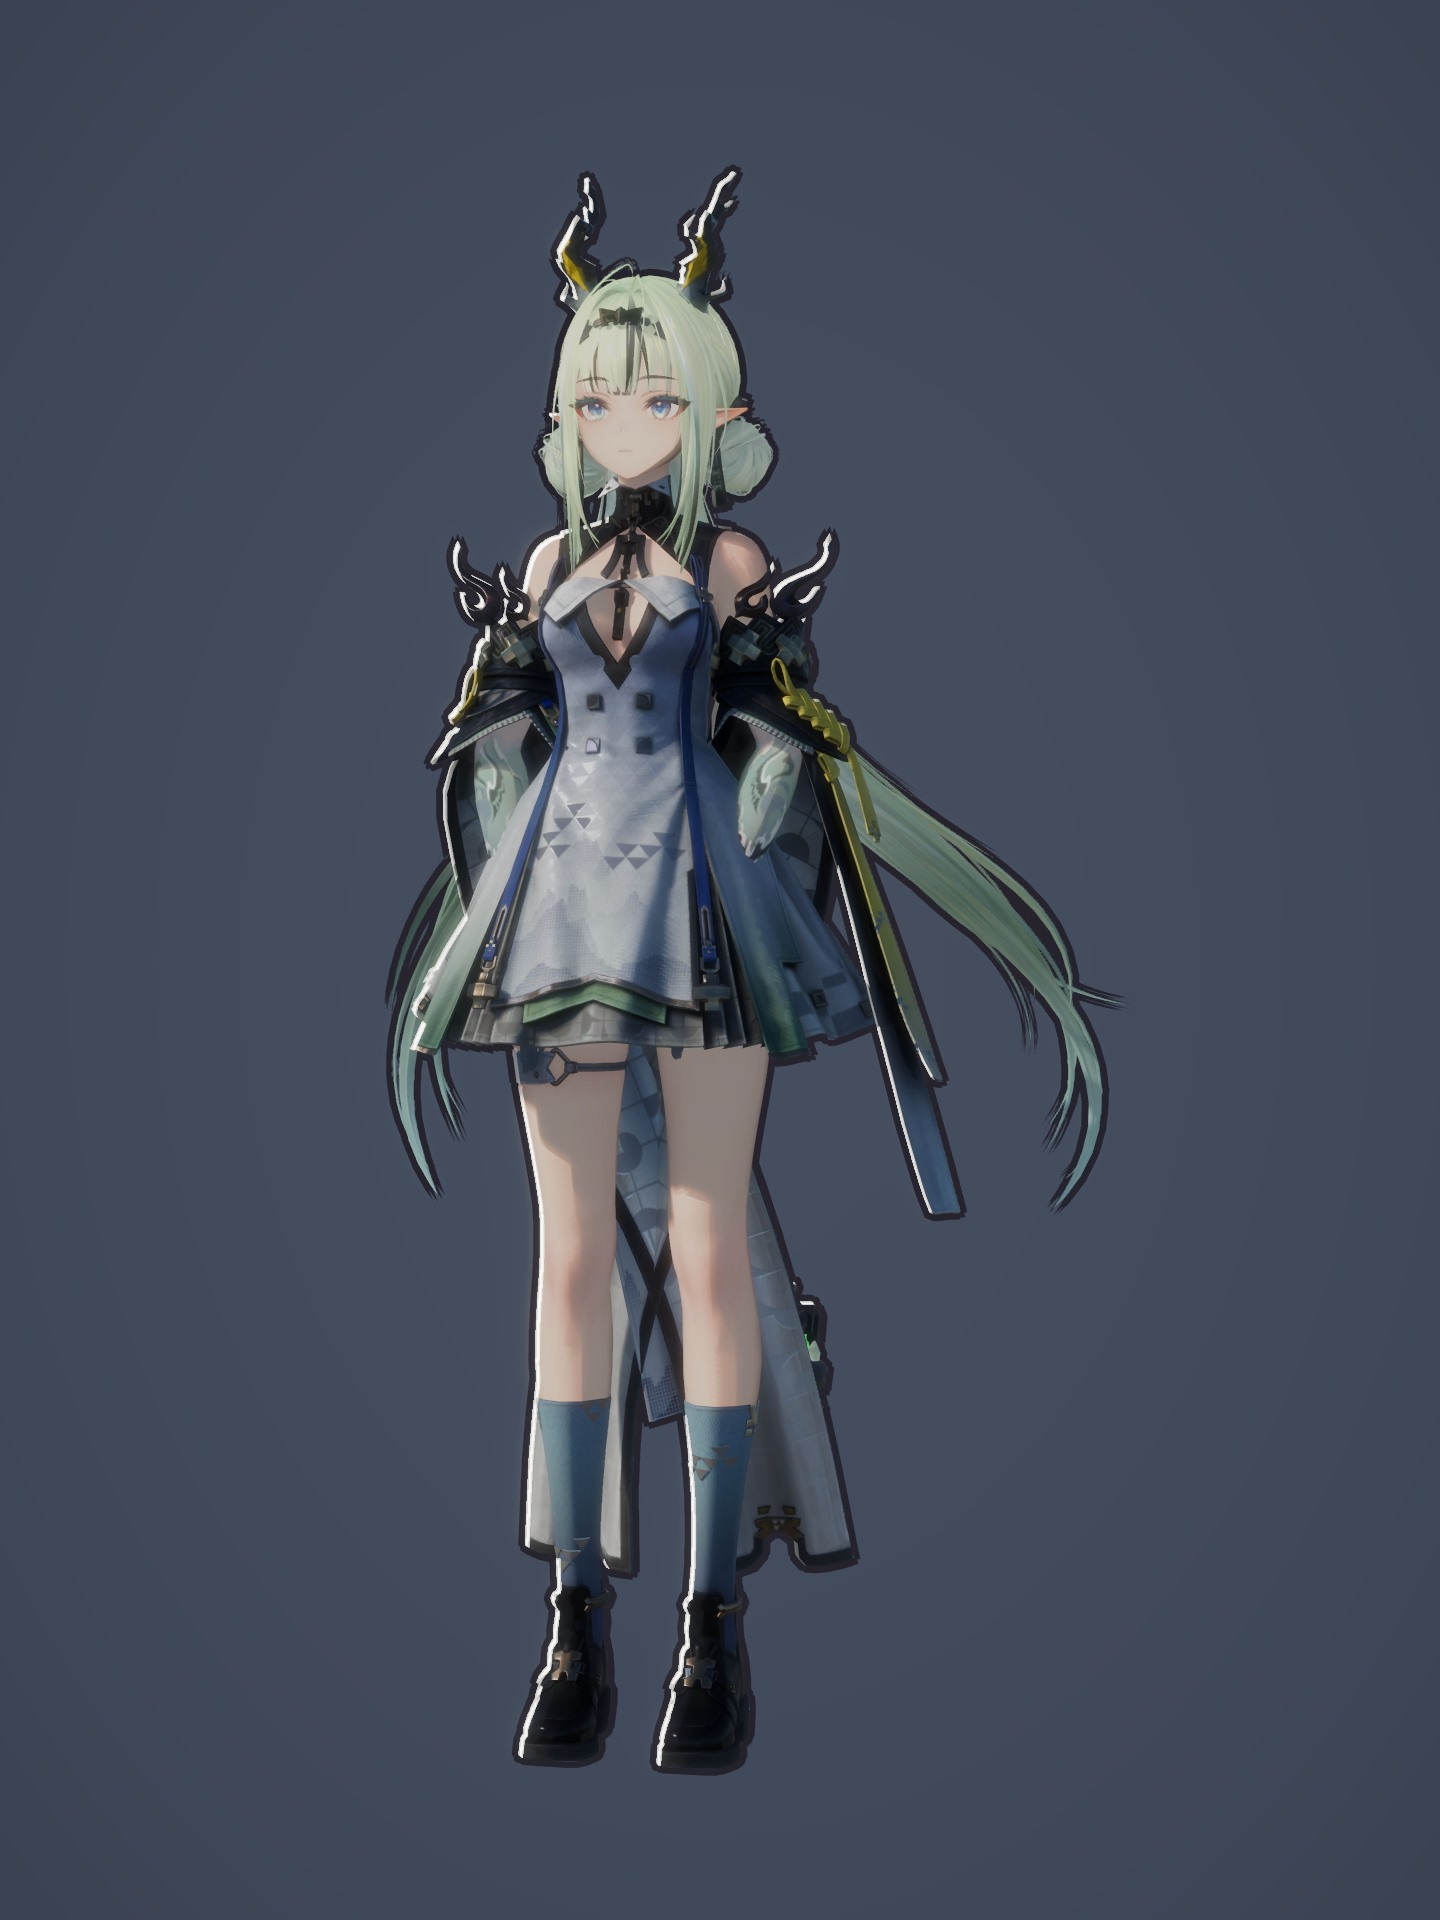
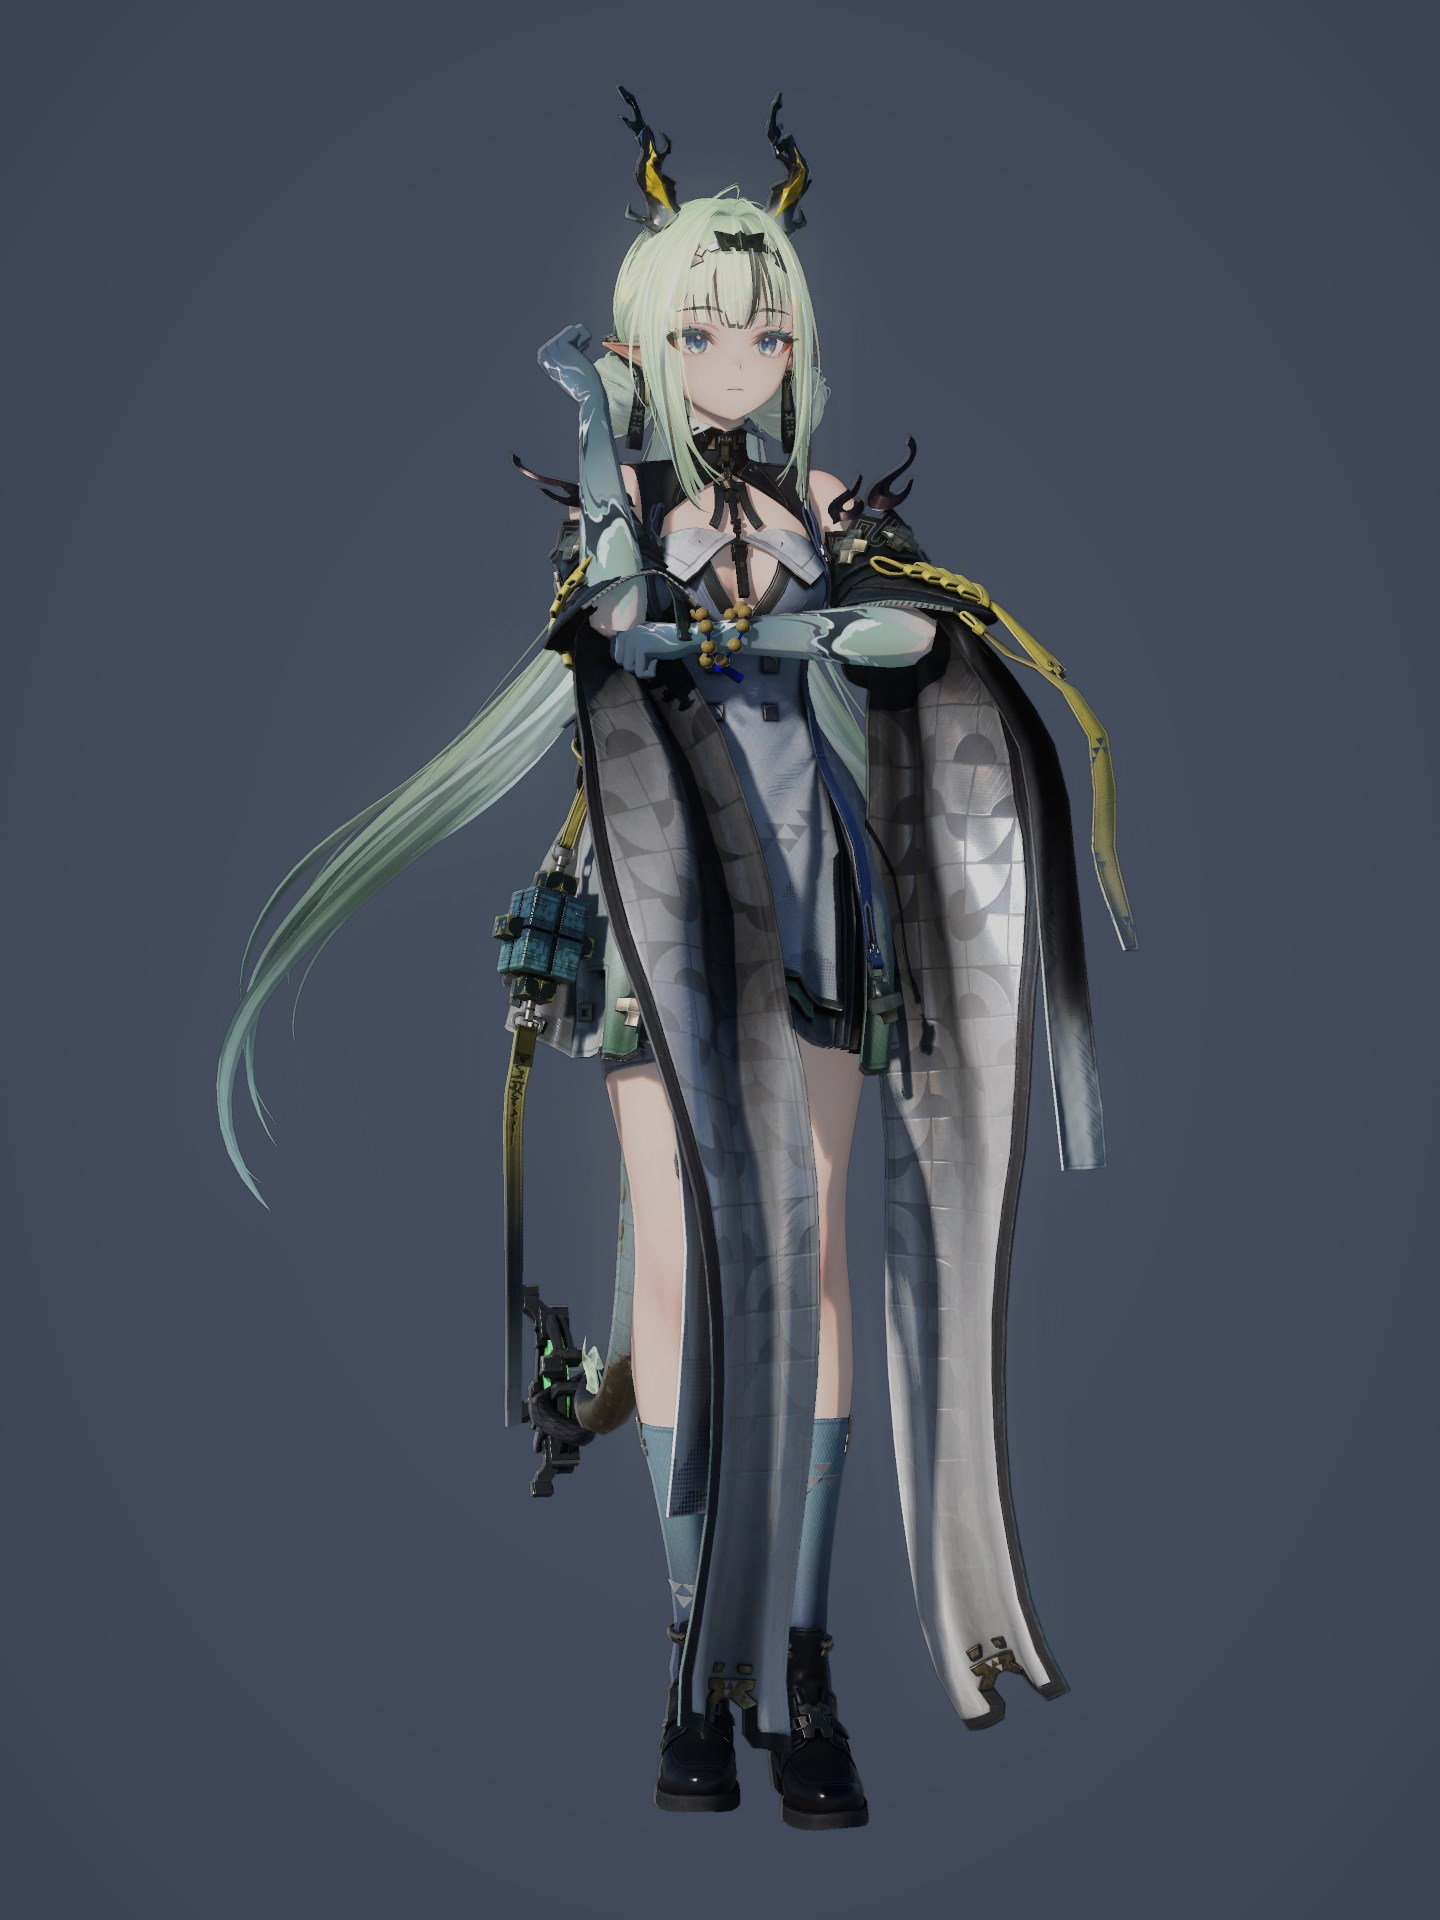
Update showcase renders with new close-up and full-body captures

Changed region(s): [[0.125, 0.0625, 0.7812, 0.9688]]

diff --git a/docs/index.html b/docs/index.html
@@ -6,7 +6,7 @@
     <meta name="description" content="GZtoon Preview — Unity URP 角色着色预览版，完整漫反射 Ramp、基础 PBR、脸部 SDF、头发 UV 高光和原生后处理。">
     <meta property="og:title" content="GZtoon Preview">
     <meta property="og:description" content="完整的漫反射 Ramp，基础的角色着色。Unity 6.3 / URP 17.3。">
-    <meta property="og:image" content="https://gz-beverage.github.io/GZtoon-Preview/images/showcase-pose.jpg">
+    <meta property="og:image" content="https://gz-beverage.github.io/GZtoon-Preview/images/showcase-portrait.jpg">
     <title>GZtoon Preview · Unity URP 角色着色</title>
     <link rel="preconnect" href="https://fonts.googleapis.com">
     <link rel="preconnect" href="https://fonts.gstatic.com" crossorigin>
@@ -33,9 +33,9 @@
           <p class="version">v0.1.0-preview.1 <span>·</span> MIT License</p>
         </div>
         <figure class="hero-visual">
-          <a href="images/showcase-pose.jpg" aria-label="查看抬手定格渲染原图"><img src="images/showcase-pose.jpg" alt="祀抬手扶领口的动作定格，GZtoon 主版在 Unity 中的实际渲染" width="1920" height="1920" fetchpriority="high"></a>
+          <a href="images/showcase-portrait.jpg" aria-label="查看面部近景渲染原图"><img src="images/showcase-portrait.jpg" alt="祀的面部近景，GZtoon 主版在 Unity 中的实际渲染" width="1920" height="1920" fetchpriority="high"></a>
           <figcaption>
-            <span>GZtoon 主版 · Unity 实际渲染</span><span>动作定格</span>
+            <span>GZtoon 主版 · Unity 实际渲染</span><span>面部近景</span>
           </figcaption>
         </figure>
       </section>
@@ -45,12 +45,12 @@
         </div>
         <div class="showcase-grid">
           <figure>
-            <a href="images/showcase-full.jpg" aria-label="查看自然站姿渲染原图"><img src="images/showcase-full.jpg" alt="祀自然收臂站姿，展示全身服装、头发与材质表现" width="1440" height="1920" loading="lazy" decoding="async"></a>
-            <figcaption>自然站姿 · 全身材质</figcaption>
+            <a href="images/showcase-full.jpg" aria-label="查看全身站姿渲染原图"><img src="images/showcase-full.jpg" alt="祀的全身站姿，展示服装、头发与材质表现" width="1440" height="1920" loading="lazy" decoding="async"></a>
+            <figcaption>全身站姿 · 服装与材质</figcaption>
           </figure>
           <figure>
-            <a href="images/showcase-portrait.jpg" aria-label="查看侧面近景渲染原图"><img src="images/showcase-portrait.jpg" alt="祀的侧面近景，展示脸部、眼睛和发丝高光" width="1920" height="1920" loading="lazy" decoding="async"></a>
-            <figcaption>侧面近景 · 头部材质</figcaption>
+            <a href="images/showcase-pose.jpg" aria-label="查看半身像渲染原图"><img src="images/showcase-pose.jpg" alt="祀的半身像，展示脸部、眼睛、发丝与肩部材质" width="1920" height="1920" loading="lazy" decoding="async"></a>
+            <figcaption>半身像 · 头部与肩部材质</figcaption>
           </figure>
         </div>
         <p class="showcase-credit">角色「祀」来自《明日方舟：终末地》，模型制作 · 茶叶味香皂。角色与模型相关权利归各自权利方，渲染图用于个人展示与交流。</p>

diff --git a/README.md b/README.md
@@ -8,6 +8,12 @@ Stylized character rendering for Unity URP. Full-edition feature overview with a
 
 [下载 Preview](https://github.com/Gz-beverage/GZtoon-Preview/releases) · [Preview 安装与使用](#preview-预览包) · [反馈问题](https://github.com/Gz-beverage/GZtoon-Preview/issues)
 
+## 渲染展示
+
+祀 · GZtoon 主版在 Unity 6.3 / URP 17.3 中的实际渲染。更多图片见 [展示页](https://gz-beverage.github.io/GZtoon-Preview/)。
+
+<img src="docs/images/showcase-portrait.jpg" width="640" alt="祀 面部近景，GZtoon 主版的实际渲染">
+
 ## 完全版功能
 
 ### 材质用途与 Shader 入口
